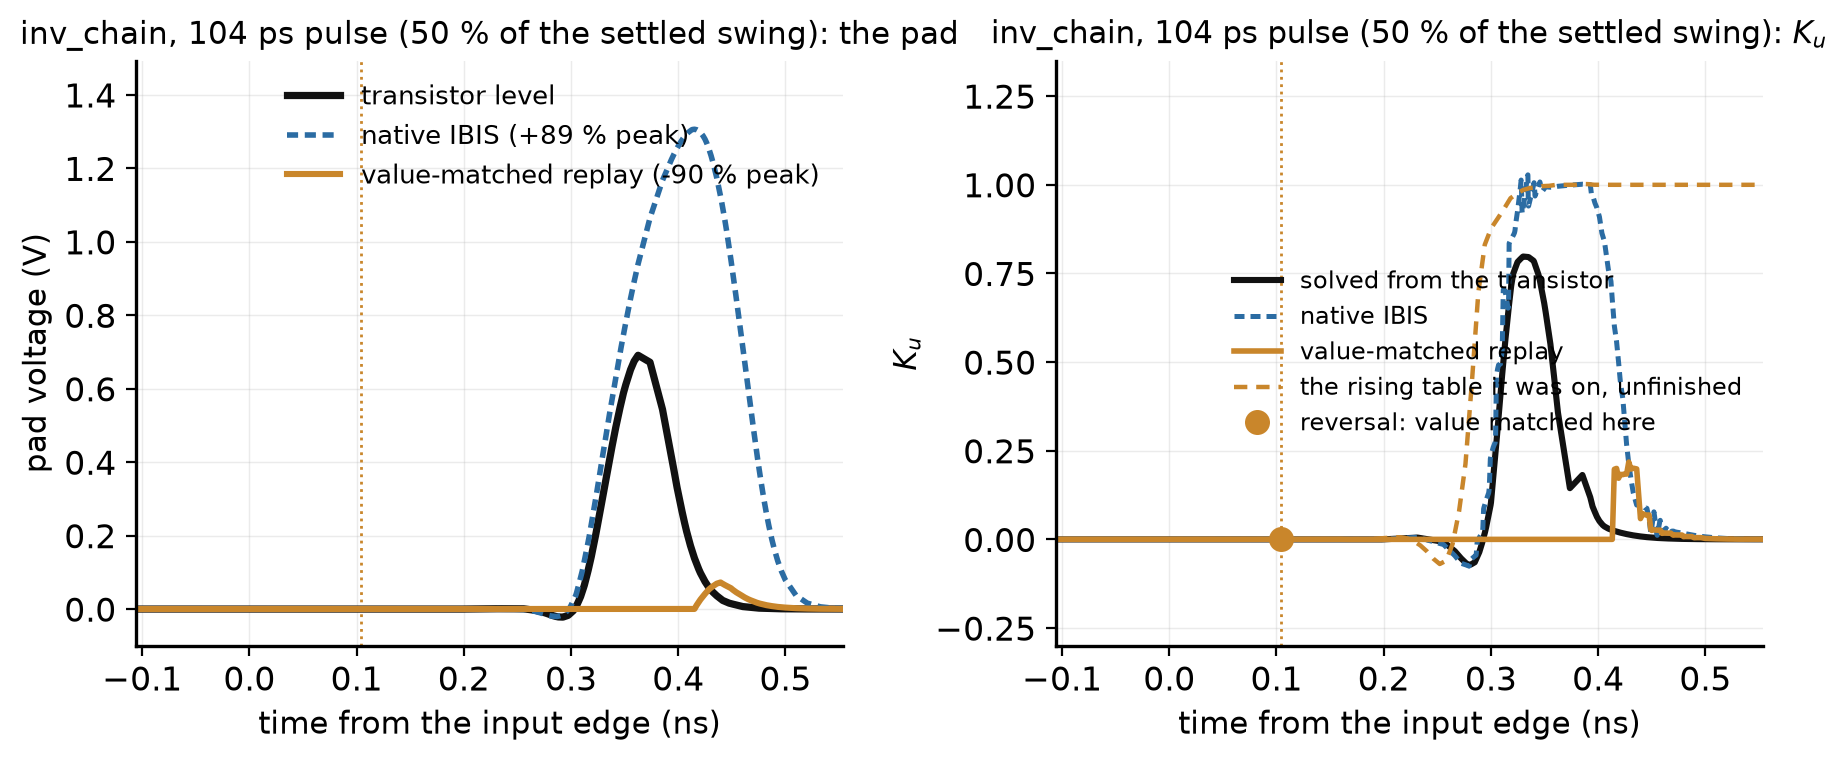
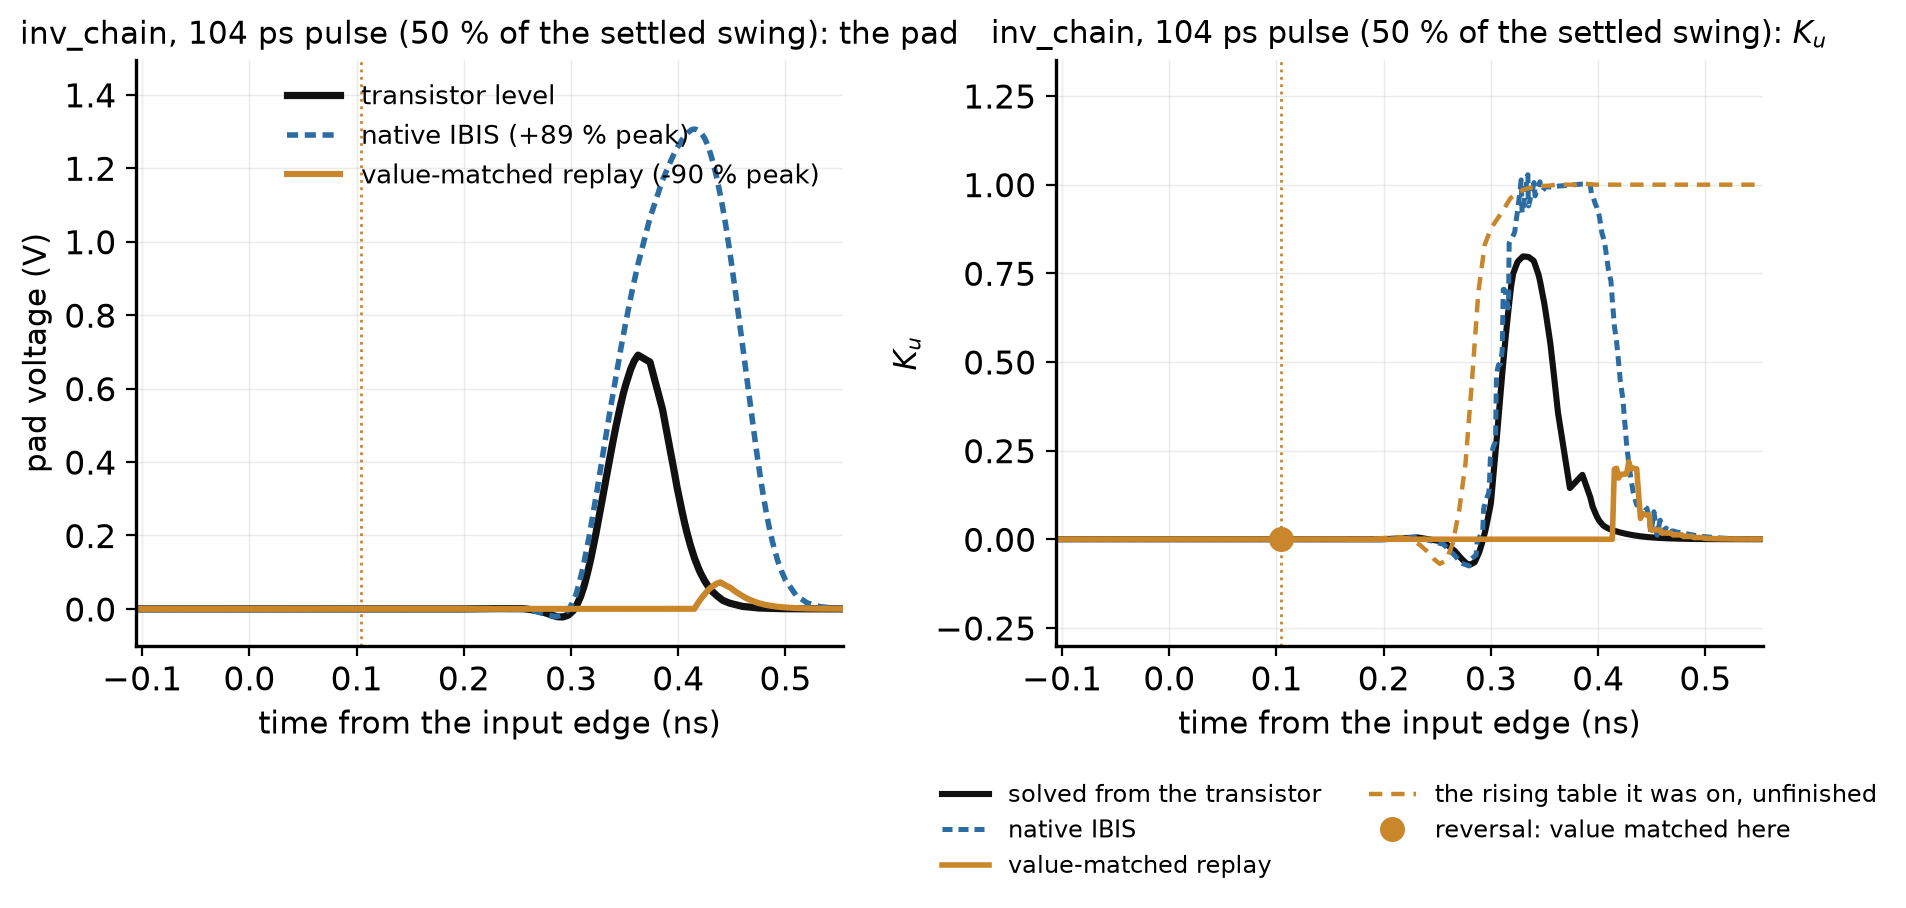
Presentation figures: value-match legend below the axes

diff --git a/scripts/presentation_2026-10-27_figures.py b/scripts/presentation_2026-10-27_figures.py
@@ -145,7 +145,7 @@ def value_match():
             b.plot([wn], [k_at], "o", color=VALUE, ms=8, zorder=6, label="reversal: value matched here")
             b.set_xlim(a.get_xlim()); b.set_ylim(-0.3, 1.35)
             b.set_title(title(dev, w) + ": $K_u$", fontsize=11); b.set_xlabel("time from the input edge (ns)"); b.set_ylabel("$K_u$")
-            b.legend(frameon=False, loc="center right", fontsize=8.5); b.grid(alpha=0.25, lw=0.5)
+            b.legend(frameon=False, loc="upper center", bbox_to_anchor=(0.5, -0.2), ncol=2, fontsize=8.5); b.grid(alpha=0.25, lw=0.5)
             save(fig, f"value_match_{dev}.png")
 
 
